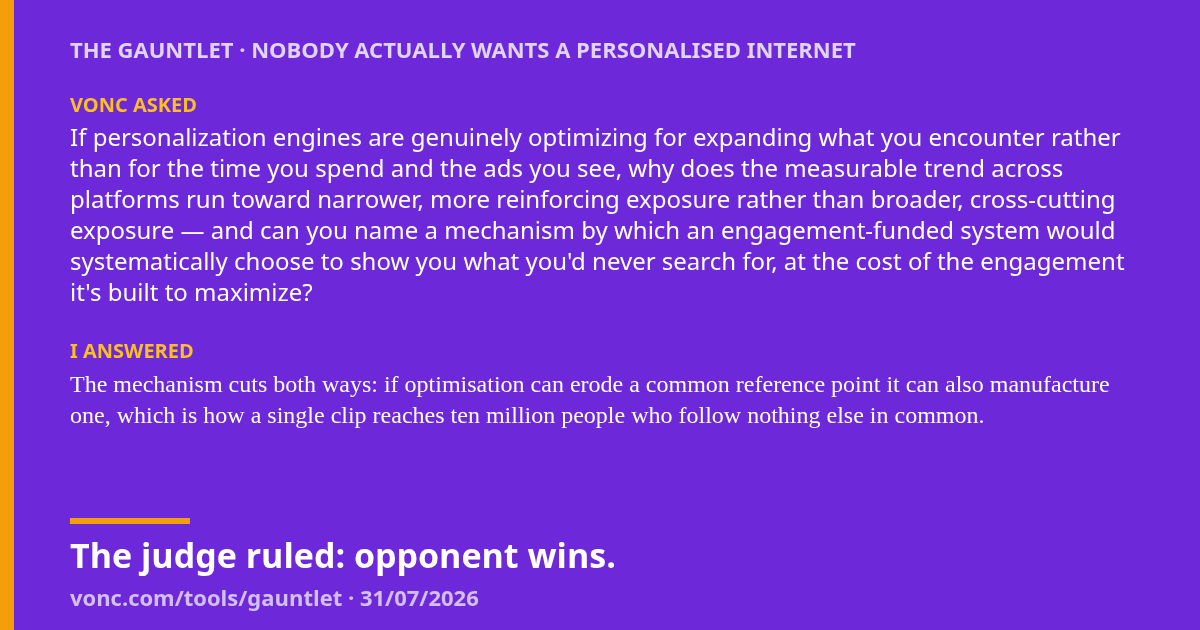
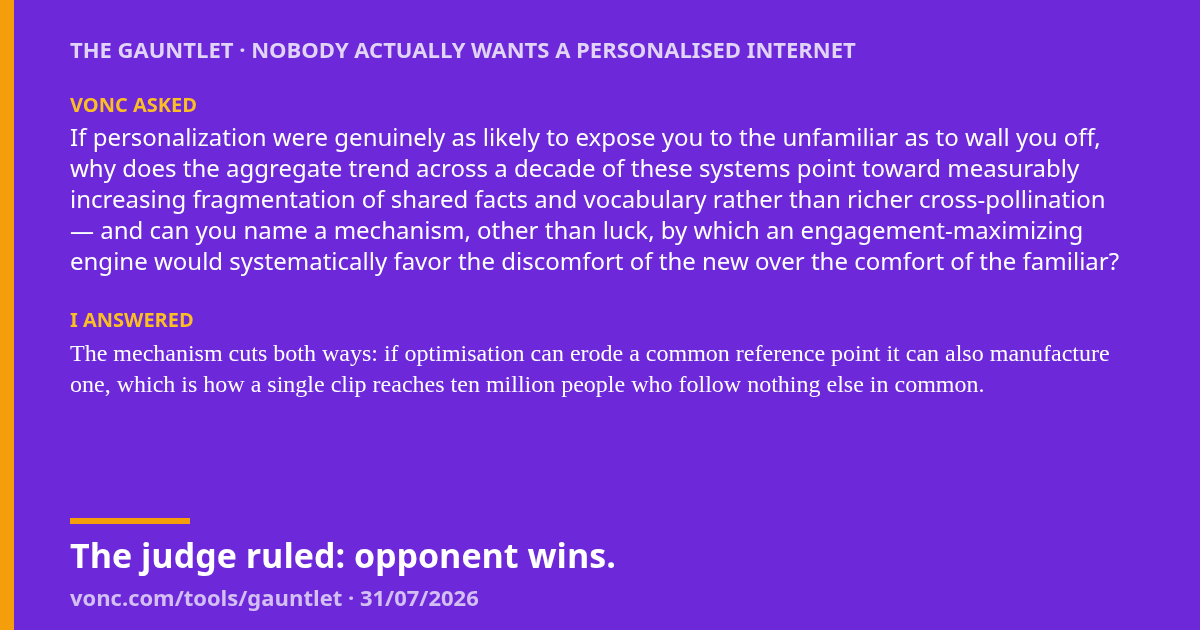
correct(share card): another thread drove it first -- what my run adds is the end-to-end pass of the HARDENED script
Checked git log on NOTES after committing and found be019bd41 at 10:45Z, fifteen
minutes before my run: another session had already driven the live card and closed
the [INFERRED from code] gap. My entry claimed that closure. Corrected in place in
both NOTES and the handoff rather than edited away.

What my run does add: their commit records that the driver printed 'SKIP PIL
unavailable' for the three image assertions and still ended 'ALL LIVE CHECKS
PASSED' -- in the script written to stop them trusting green. They hardened it so
a missing Pillow FAILS and stated the hardened script had NOT been re-run
end-to-end. My run was that run, and the image assertions executed rather than
skipped: exactly (1200, 630), 88/210 sampled rows marked, lowest marked row 609,
eleven PASS and zero SKIP. So the quiet-test they caught is closed by a run that
could have failed on it.

PNG committed as the artefact. Two real rounds were driven, theirs 469 chars and
mine 451.

The lesson, from the other side of one this lane already knows: I should have run
git log on the file BEFORE writing the entry, not after committing it. Fifteen
minutes is plenty on a shared tree, and here the log was not even quiet.

Council-Submitted: n/a - docs plus one image artefact.

Changed region(s): [[0.0617, 0.2111, 0.9558, 0.573], [0.0617, 0.6032, 0.925, 0.6937]]

diff --git a/docs/agent_docs/docs024_key_docs_latest/gauntlet_dead_cta/NOTES_gauntlet_dead_cta.md b/docs/agent_docs/docs024_key_docs_latest/gauntlet_dead_cta/NOTES_gauntlet_dead_cta.md
@@ -2827,3 +2827,28 @@ Two cosmetic observations, neither a defect and neither worth a fix on its own: 
 band between the answer and the verdict when the defence is short, and the engine
 returned "personalization" (US spelling) in outward-facing copy against the British
 English convention.
+
+### Clarifying my own entry above — another thread drove the card FIRST, and what my run actually adds
+
+Checked `git log` on this file after committing and found `be019bd41` (10:45Z), fifteen
+minutes before my run: **another session had already driven the live card and closed the
+`[INFERRED from code]` gap.** So my entry above overstates my contribution — "closes the
+gap" was already true when I wrote it. Corrected here rather than above.
+
+What my run does add is narrower and worth having. Their commit records a real misstep:
+the driver printed **`SKIP PIL unavailable`** for the three image assertions and then
+`ALL LIVE CHECKS PASSED` — in the very script written to stop them trusting green. They
+hardened it (missing Pillow is now a FAILED check, `drive_exchange_card_2026-07-31.py:104-113`)
+and stated plainly that **the hardened script had NOT been re-run end-to-end.**
+
+My run at ~11:00Z was that end-to-end run, on the hardened script, and the three image
+assertions **executed rather than skipped** — they returned real measurements: exactly
+`(1200, 630)`, `88/210` sampled rows carrying marks, lowest marked row `609`. Eleven
+PASS, zero SKIP. So the quiet-test they caught is now proven closed by a run that could
+have failed on it.
+
+Two rounds were driven, not one: theirs a 469-char challenge, mine 451. Both real, both
+recorded. **The lesson is the one this lane keeps relearning from the other side:** I
+should have run `git log` on the file before writing the entry, not after committing it.
+The tree is shared and fifteen minutes is plenty — "a quiet `git log` is not silence"
+cuts both ways, and here the log was not even quiet.

diff --git a/docs/agent_docs/docs024_key_docs_latest/gauntlet_dead_cta/HANDOFF_2026-07-31_continue_here.md b/docs/agent_docs/docs024_key_docs_latest/gauntlet_dead_cta/HANDOFF_2026-07-31_continue_here.md
@@ -218,10 +218,16 @@ session moves it again.
 >   `prior_art_librarian`'s HIGH objections. **Verdict not yet read** — expect ~30 min
 >   from 11:40Z; the queue was 7 deep. Read it with the query in §4.1 below before
 >   writing any `Council-Reviewed:` trailer anywhere.
-> - **The live share-card driver RAN and passed 11/11** — the `[INFERRED from code]`
->   gap at the bottom of NOTES is CLOSED and should be read as closed: the challenge
->   element (451 chars) and defence textarea (198 chars) are both still populated when
->   the button fires, observed on a real round through the real page. Card is
+> - **The live share-card driver RAN and passed 11/11**, on a real round through the
+>   real page: challenge element 451 chars, defence textarea 198 chars, both still
+>   populated when the button fires. **CREDIT WHERE DUE — another session drove it
+>   first** (`be019bd41`, 10:45Z, a 469-char challenge), so the
+>   `[INFERRED from code]` gap was already closed before my run. What my run adds is
+>   narrower: theirs printed `SKIP PIL unavailable` for the three IMAGE assertions and
+>   still ended `ALL LIVE CHECKS PASSED`; they hardened the script so a missing Pillow
+>   now FAILS, and recorded that the hardened script had **not** been re-run
+>   end-to-end. Mine was that run, and the image assertions **executed** — real
+>   numbers, not skips. Card is
 >   1200×630, lower half not blank, no page errors. PNG:
 >   `p4_sources/live_card_2026-07-31.png`. Two cosmetic observations, neither a
 >   defect: a dead band between answer and verdict when the defence is short, and the
